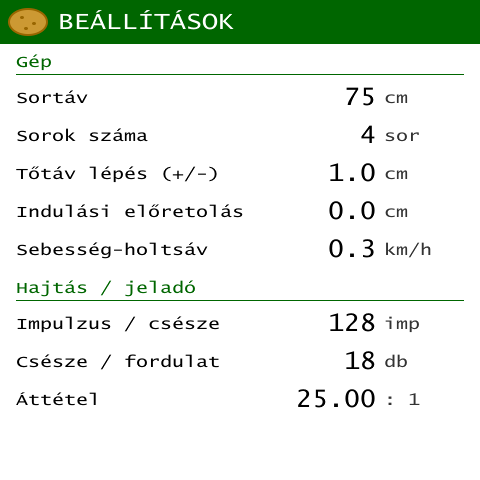
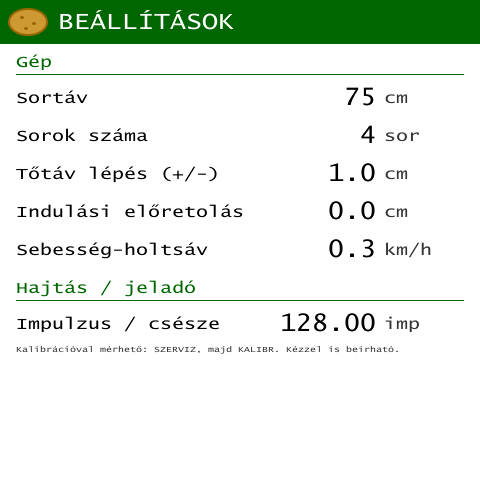
Add cup row calibration screen
Pulses per cup measured over N cups (10..100): jog a cup to the mark,
zero, turn, jog cup N to the mark, save. Pulses per cup now has two
decimals; gear ratio and cups per revolution are dropped.

diff --git a/tools/make_pool.py b/tools/make_pool.py
@@ -209,9 +209,9 @@ class Pool:
 
 # --- Object ids -----------------------------------------------------------------------------
 # Masks
-DM_MAIN, DM_SETTINGS, DM_SERVICE = 1000, 1001, 1002
+DM_MAIN, DM_SETTINGS, DM_SERVICE, DM_CALIBRATION = 1000, 1001, 1002, 1003
 AM_JAM, AM_LAG, AM_NO_SPEED, AM_MOTOR = 1100, 1101, 1102, 1103
-SKM_MAIN, SKM_SETTINGS, SKM_SERVICE, SKM_ALARM = 2000, 2001, 2002, 2100
+SKM_MAIN, SKM_SETTINGS, SKM_SERVICE, SKM_CALIBRATION, SKM_ALARM = 2000, 2001, 2002, 2003, 2100
 
 # Keys and their key codes (the code the ECU gets in the Soft Key Activation message)
 KEYS = {
@@ -223,6 +223,12 @@ KEYS = {
     "KEY_HOME": (5006, 7),
     "KEY_CALIBRATE": (5007, 8),
     "KEY_ALARM_ACK": (5008, 9),
+    # Calibration screen. JOG runs the motor slowly while held (pressed/held/released), JOG_FINE moves one small step
+    "KEY_CAL_JOG": (5009, 10),
+    "KEY_CAL_JOG_FINE": (5010, 11),
+    "KEY_CAL_ZERO": (5011, 12),
+    "KEY_CAL_START_STOP": (5012, 13),
+    "KEY_CAL_SAVE": (5013, 14),
 }
 
 # Values the ECU changes at runtime (Change Numeric Value / Change String Value / Change Attribute)
@@ -254,9 +260,7 @@ IN_ROW_COUNT = 6101
 IN_SPACING_STEP = 6102            # mm, shown as cm
 IN_START_ADVANCE = 6103           # mm, shown as cm
 IN_SPEED_DEADBAND = 6104          # 0.1 km/h
-IN_PULSES_PER_CUP = 6105
-IN_CUPS_PER_REV = 6106
-IN_GEAR_RATIO = 6107              # 0.01
+IN_PULSES_PER_CUP = 6105         # 0.01 pulse, measured by the calibration (or typed in)
 
 # Service
 IN_KP_POS = 6200                  # 0.01
@@ -265,12 +269,23 @@ IN_PI_KI = 6202                   # 0.01
 IN_MAX_LAG = 6203                 # 0.1 cup
 IN_CURRENT_LIMIT = 6204           # 0.1 A
 IN_SOFT_START = 6205              # ms
-IN_CAL_CUPS = 6206                # cups to turn for calibration
-OUT_CAL_PULSES = 6207             # pulses counted
+
+# Calibration (DM_CALIBRATION)
+IN_CAL_CUPS = 6300                # N, cups to turn, 10..100
+OUT_CAL_PULSES = 6301             # pulses counted since ZERO
+OUT_CAL_CUPS_DONE = 6302          # 0.1 cup, estimate from the old pulses per cup (0 if there is none)
+OUT_CAL_NEW = 6303                # 0.01 pulse per cup, pulses / N
+OUT_CAL_OLD = 6304                # 0.01 pulse per cup, the value in use
+OUT_CAL_DEVIATION = 6305          # 0.01 %, offset so that 0 % = 100000
+OUT_CAL_MESSAGE = 6306            # string, 40 chars: what to do next
+OBJ_CAL_STEP1 = 6307              # step circles: change the fill to FILL_GREEN (done),
+OBJ_CAL_STEP2 = 6308              #   FILL_ORANGE (current) or FILL_GREY (not yet)
+OBJ_CAL_STEP3 = 6309
 
 FILL_GREEN = "FILL_GREEN"
 FILL_RED = "FILL_RED"
 FILL_GREY = "FILL_GREY"
+FILL_ORANGE = "FILL_ORANGE"
 
 
 def key_label(pool, key_name, big, small, big_size=F24x32, colour=BLACK):
@@ -311,6 +326,17 @@ def setting_row(pool, label, unit, input_id, value, minimum, maximum, scale, dec
             (pool.text(80, 32, unit, LABEL, F12x16), 384, y)]
 
 
+def output_row(pool, label, unit, name, value, scale, decimals, y, offset=0, colour=BLACK):
+    """A read-only row; `name` is the id constant's name, so it also goes into the header."""
+    return [(pool.text(240, 32, label, BLACK, F12x16), 16, y),
+            (pool.number(globals()[name], 120, 32, value, scale, decimals, colour, F16x24, offset=offset, name=name), 256, y),
+            (pool.text(80, 32, unit, LABEL, F12x16), 384, y)]
+
+
+def section_title(pool, title, y):
+    return [(pool.text(448, 20, title, DARK_GREEN, F12x16), 16, y), (pool.hline(448, DARK_GREEN, 2), 16, y + 22)]
+
+
 def build():
     p = Pool()
 
@@ -320,6 +346,7 @@ def build():
     p.names[FILL_GREEN] = p.fill(rgb(0, 4, 0))
     p.names[FILL_RED] = p.fill(RED)
     p.names[FILL_GREY] = p.fill(GREY)
+    p.names[FILL_ORANGE] = p.fill(rgb(5, 3, 0))
 
     # --- Soft keys --------------------------------------------------------------------------
     key_label(p, "KEY_SPACING_UP", "+", "TŐTÁV")
@@ -330,12 +357,23 @@ def build():
     key_label(p, "KEY_HOME", "<", "VISSZA")
     key_label(p, "KEY_CALIBRATE", "C", "KALIBR.")
     key_label(p, "KEY_ALARM_ACK", "OK", "NYUGTA", F24x32, DARK_GREEN)
+    key_label(p, "KEY_CAL_JOG", ">>", "LÉPTET")
+    key_label(p, "KEY_CAL_JOG_FINE", ">|", "FINOM")
+    key_label(p, "KEY_CAL_ZERO", "0", "NULLA")
+    play = p.polygon(20, 24, [(0, 0), (20, 12), (0, 24)], DARK_GREEN, DARK_GREEN)
+    stop = p.rect(20, 20, RED, RED)
+    p.key(KEYS["KEY_CAL_START_STOP"][0], KEYS["KEY_CAL_START_STOP"][1],
+          [(play, 8, 8), (stop, 34, 10), (p.text(60, 18, "START/STOP", BLACK, F6x8, CENTER | MIDDLE), 0, 40)],
+          name="KEY_CAL_START_STOP")
+    key_label(p, "KEY_CAL_SAVE", "OK", "MENTÉS", F24x32, DARK_GREEN)
 
     k = {name: object_id for name, (object_id, _) in KEYS.items()}
     p.soft_key_mask(SKM_MAIN, [k["KEY_SPACING_UP"], k["KEY_SPACING_DOWN"], k["KEY_RESET_COUNTERS"],
                                NONE, NONE, k["KEY_SETTINGS"]], name="SKM_MAIN")
     p.soft_key_mask(SKM_SETTINGS, [k["KEY_HOME"], NONE, NONE, NONE, NONE, k["KEY_SERVICE"]], name="SKM_SETTINGS")
     p.soft_key_mask(SKM_SERVICE, [k["KEY_HOME"], NONE, k["KEY_CALIBRATE"]], name="SKM_SERVICE")
+    p.soft_key_mask(SKM_CALIBRATION, [k["KEY_HOME"], k["KEY_CAL_JOG"], k["KEY_CAL_JOG_FINE"], k["KEY_CAL_ZERO"],
+                                      k["KEY_CAL_START_STOP"], k["KEY_CAL_SAVE"]], name="SKM_CALIBRATION")
     p.soft_key_mask(SKM_ALARM, [k["KEY_ALARM_ACK"]], name="SKM_ALARM")
 
     # --- Main working screen ---------------------------------------------------------------
@@ -431,23 +469,17 @@ def build():
         ("Indulási előretolás", "cm", IN_START_ADVANCE, 0, 0, 500, 0.1, 1),
         ("Sebesség-holtsáv", "km/h", IN_SPEED_DEADBAND, 3, 0, 50, 0.1, 1),
     ]
-    calibration = [
-        ("Impulzus / csésze", "imp", IN_PULSES_PER_CUP, 128, 1, 65000, 1, 0),
-        ("Csésze / fordulat", "db", IN_CUPS_PER_REV, 18, 1, 200, 1, 0),
-        ("Áttétel", ": 1", IN_GEAR_RATIO, 2500, 100, 20000, 0.01, 2),
-    ]
-    settings = header(p, "BEÁLLÍTÁSOK")
-    settings += [(p.text(448, 20, "Gép", DARK_GREEN, F12x16), 16, 52), (p.hline(448, DARK_GREEN, 2), 16, 74)]
+    settings = header(p, "BEÁLLÍTÁSOK") + section_title(p, "Gép", 52)
     for index, row in enumerate(rows):
         settings += setting_row(p, *row, y=82 + index * 38)
-    settings += [(p.text(448, 20, "Hajtás / jeladó", DARK_GREEN, F12x16), 16, 278), (p.hline(448, DARK_GREEN, 2), 16, 300)]
-    for index, row in enumerate(calibration):
-        settings += setting_row(p, *row, y=308 + index * 38)
+    settings += section_title(p, "Hajtás / jeladó", 278)
+    settings += setting_row(p, "Impulzus / csésze", "imp", IN_PULSES_PER_CUP, 12800, 100, 10000000, 0.01, 2, y=308)
+    settings.append((p.text(448, 32, "Kalibrációval mérhető: SZERVIZ, majd KALIBR. Kézzel is beírható.", LABEL, F6x8,
+                            LEFT | TOP, wrap=True), 16, 346))
     p.data_mask(DM_SETTINGS, SKM_SETTINGS, settings, bg=PANEL, name="DM_SETTINGS")
 
-    # --- Service: controller and calibration --------------------------------------------------
-    service = header(p, "SZERVIZ")
-    service += [(p.text(448, 20, "Szabályzó", DARK_GREEN, F12x16), 16, 52), (p.hline(448, DARK_GREEN, 2), 16, 74)]
+    # --- Service: controller -------------------------------------------------------------------
+    service = header(p, "SZERVIZ") + section_title(p, "Szabályzó", 52)
     controller = [
         ("Kp pozíció", "1/s", IN_KP_POS, 150, 0, 5000, 0.01, 2),
         ("PI Kp", "", IN_PI_KP, 80, 0, 5000, 0.01, 2),
@@ -458,15 +490,46 @@ def build():
     ]
     for index, row in enumerate(controller):
         service += setting_row(p, *row, y=82 + index * 38)
-    service += [
-        (p.text(448, 20, "Forgatásos kalibráció", DARK_GREEN, F12x16), 16, 316), (p.hline(448, DARK_GREEN, 2), 16, 338),
-        *setting_row(p, "Forgatandó csésze", "db", IN_CAL_CUPS, 50, 1, 500, 1, 0, y=346),
-        (p.text(240, 32, "Számolt impulzus", BLACK, F12x16), 16, 384),
-        (p.number(OUT_CAL_PULSES, 120, 32, 6400, 1, 0, BLACK, F16x24, name="OUT_CAL_PULSES"), 256, 384),
-        (p.text(80, 32, "imp", LABEL, F12x16), 384, 384),
-        (p.text(448, 36, "Álló gépnél, felemelt munkakapcsolóval. Indítás: KALIBR. gomb.", LABEL, F6x8, LEFT | TOP, wrap=True), 16, 426),
-    ]
+    service += section_title(p, "Csészesor kalibráció", 316)
+    service.append((p.text(448, 60, "Az impulzus / csésze mérése N csésze körbeforgatásával. Megnyitás: KALIBR. gomb.",
+                           BLACK, F8x12, LEFT | TOP, wrap=True), 16, 346))
     p.data_mask(DM_SERVICE, SKM_SERVICE, service, bg=PANEL, name="DM_SERVICE")
+
+    # --- Calibration: pulses per cup over N cups -------------------------------------------------
+    # 1. JOG / JOG FINE until a cup is at the mark, ZERO.  2. START: turns slowly, stops by itself near N - 1/2 cup
+    # (with an old value) or on STOP.  3. JOG FINE until cup N is at the mark, SAVE: pulses / N.
+    # Always approach the mark forwards (backlash); after an overshoot go back past it and come forwards again.
+    steps = [
+        (OBJ_CAL_STEP1, "OBJ_CAL_STEP1", FILL_ORANGE, "Ráállás", "LÉPTET / FINOM: egy csésze a jelhez, majd NULLA"),
+        (OBJ_CAL_STEP2, "OBJ_CAL_STEP2", FILL_GREY, "Forgatás", "START: lassan forog N csészényit, STOP megállítja"),
+        (OBJ_CAL_STEP3, "OBJ_CAL_STEP3", FILL_GREY, "Befejezés", "FINOM: az N-edik csésze a jelhez, majd MENTÉS"),
+    ]
+    calibration = header(p, "KALIBRÁCIÓ")
+    for index, (object_id, name, fill, title, hint) in enumerate(steps):
+        y = 52 + index * 44
+        line = p.line(BLACK, 2)
+        circle = p.add(object_id, u8(15) + u16(line) + u16(30) + u16(30) + u8(0) + u8(0) + u8(0) + u16(p.names[fill]) + u8(0),
+                       refs=[line, p.names[fill]], name=name)
+        calibration += [
+            (circle, 16, y + 4),
+            (p.text(30, 30, str(index + 1), WHITE, F12x16, CENTER | MIDDLE), 16, y + 4),
+            (p.text(400, 18, title, BLACK, F12x16), 58, y + 2),
+            (p.text(400, 14, hint, LABEL, F6x8), 58, y + 22),
+        ]
+    calibration += [
+        (p.rect(448, 32, rgb(5, 5, 3), rgb(5, 3, 0), 2), 16, 186),
+        (p.text(440, 32, "Állíts egy csészét a jelhez, majd NULLA!", BLACK, F8x12, CENTER | MIDDLE,
+                object_id=OUT_CAL_MESSAGE, name="OUT_CAL_MESSAGE"), 20, 186),
+        *setting_row(p, "Csészék száma (N)", "db", IN_CAL_CUPS, 20, 10, 100, 1, 0, y=226),
+        *output_row(p, "Számolt impulzus", "imp", "OUT_CAL_PULSES", 2567, 1, 0, y=262),
+        *output_row(p, "Megtett csésze (becsült)", "db", "OUT_CAL_CUPS_DONE", 201, 0.1, 1, y=298),
+        *output_row(p, "Új impulzus / csésze", "imp", "OUT_CAL_NEW", 12835, 0.01, 2, y=334, colour=DARK_GREEN),
+        *output_row(p, "Eddigi impulzus / csésze", "imp", "OUT_CAL_OLD", 12800, 0.01, 2, y=370),
+        *output_row(p, "Eltérés", "%", "OUT_CAL_DEVIATION", 100027, 0.01, 2, y=406, offset=-100000),
+        (p.text(448, 20, "Csak álló gépnél, felemelt munkakapcsolóval. A jelhez mindig előre haladva állj rá.",
+                LABEL, F6x8, LEFT | MIDDLE), 16, 446),
+    ]
+    p.data_mask(DM_CALIBRATION, SKM_CALIBRATION, calibration, bg=PANEL, name="DM_CALIBRATION")
 
     # --- Alarms ------------------------------------------------------------------------------
     triangle = p.polygon(120, 104, [(60, 0), (120, 104), (0, 104)], YELLOW, BLACK, 3)
@@ -513,12 +576,14 @@ def write_header(p, path):
         "",
         "namespace krumpli_pool",
         "{",
-        *section("Masks", ["DM_MAIN", "DM_SETTINGS", "DM_SERVICE", "AM_JAM", "AM_LAG", "AM_NO_SPEED", "AM_MOTOR"]),
-        *section("Soft key masks", ["SKM_MAIN", "SKM_SETTINGS", "SKM_SERVICE", "SKM_ALARM"]),
+        *section("Masks", ["DM_MAIN", "DM_SETTINGS", "DM_SERVICE", "DM_CALIBRATION", "AM_JAM", "AM_LAG", "AM_NO_SPEED",
+                           "AM_MOTOR"]),
+        *section("Soft key masks", ["SKM_MAIN", "SKM_SETTINGS", "SKM_SERVICE", "SKM_CALIBRATION", "SKM_ALARM"]),
         *section("Soft keys (object ids)", list(KEYS)),
         "\t// Soft key codes (Soft Key Activation message)",
         *[f"\tconstexpr std::uint8_t {n}_CODE = {code};" for n, (_, code) in KEYS.items()],
-        *section("Fill attributes for Change Attribute on the status box and the work switch LED", [FILL_GREEN, FILL_RED, FILL_GREY]),
+        *section("Fill attributes for Change Attribute (status box, work switch LED, calibration steps)",
+                 [FILL_GREEN, FILL_RED, FILL_GREY, FILL_ORANGE]),
         *section("Runtime values", var_names),
         "} // namespace krumpli_pool",
         "",

diff --git a/include/krumpli_pool_ids.hpp b/include/krumpli_pool_ids.hpp
@@ -9,6 +9,7 @@ namespace krumpli_pool
 	constexpr std::uint16_t DM_MAIN = 1000;
 	constexpr std::uint16_t DM_SETTINGS = 1001;
 	constexpr std::uint16_t DM_SERVICE = 1002;
+	constexpr std::uint16_t DM_CALIBRATION = 1003;
 	constexpr std::uint16_t AM_JAM = 1100;
 	constexpr std::uint16_t AM_LAG = 1101;
 	constexpr std::uint16_t AM_NO_SPEED = 1102;
@@ -17,6 +18,7 @@ namespace krumpli_pool
 	constexpr std::uint16_t SKM_MAIN = 2000;
 	constexpr std::uint16_t SKM_SETTINGS = 2001;
 	constexpr std::uint16_t SKM_SERVICE = 2002;
+	constexpr std::uint16_t SKM_CALIBRATION = 2003;
 	constexpr std::uint16_t SKM_ALARM = 2100;
 	// Soft keys (object ids)
 	constexpr std::uint16_t KEY_SPACING_UP = 5000;
@@ -27,6 +29,11 @@ namespace krumpli_pool
 	constexpr std::uint16_t KEY_HOME = 5006;
 	constexpr std::uint16_t KEY_CALIBRATE = 5007;
 	constexpr std::uint16_t KEY_ALARM_ACK = 5008;
+	constexpr std::uint16_t KEY_CAL_JOG = 5009;
+	constexpr std::uint16_t KEY_CAL_JOG_FINE = 5010;
+	constexpr std::uint16_t KEY_CAL_ZERO = 5011;
+	constexpr std::uint16_t KEY_CAL_START_STOP = 5012;
+	constexpr std::uint16_t KEY_CAL_SAVE = 5013;
 	// Soft key codes (Soft Key Activation message)
 	constexpr std::uint8_t KEY_SPACING_UP_CODE = 1;
 	constexpr std::uint8_t KEY_SPACING_DOWN_CODE = 2;
@@ -36,10 +43,16 @@ namespace krumpli_pool
 	constexpr std::uint8_t KEY_HOME_CODE = 7;
 	constexpr std::uint8_t KEY_CALIBRATE_CODE = 8;
 	constexpr std::uint8_t KEY_ALARM_ACK_CODE = 9;
-	// Fill attributes for Change Attribute on the status box and the work switch LED
+	constexpr std::uint8_t KEY_CAL_JOG_CODE = 10;
+	constexpr std::uint8_t KEY_CAL_JOG_FINE_CODE = 11;
+	constexpr std::uint8_t KEY_CAL_ZERO_CODE = 12;
+	constexpr std::uint8_t KEY_CAL_START_STOP_CODE = 13;
+	constexpr std::uint8_t KEY_CAL_SAVE_CODE = 14;
+	// Fill attributes for Change Attribute (status box, work switch LED, calibration steps)
 	constexpr std::uint16_t FILL_GREEN = 30001;
 	constexpr std::uint16_t FILL_RED = 30002;
 	constexpr std::uint16_t FILL_GREY = 30003;
+	constexpr std::uint16_t FILL_ORANGE = 30004;
 	// Runtime values
 	constexpr std::uint16_t IN_TARGET_SPACING = 6000;
 	constexpr std::uint16_t OUT_ACTUAL_SPACING = 6001;
@@ -62,5 +75,13 @@ namespace krumpli_pool
 	constexpr std::uint16_t OUT_MOTOR_CURRENT = 6018;
 	constexpr std::uint16_t VAR_MOTOR_PWM = 6019;
 	constexpr std::uint16_t OUT_MOTOR_RPM = 6020;
-	constexpr std::uint16_t OUT_CAL_PULSES = 6207;
+	constexpr std::uint16_t OUT_CAL_PULSES = 6301;
+	constexpr std::uint16_t OUT_CAL_CUPS_DONE = 6302;
+	constexpr std::uint16_t OUT_CAL_NEW = 6303;
+	constexpr std::uint16_t OUT_CAL_OLD = 6304;
+	constexpr std::uint16_t OUT_CAL_DEVIATION = 6305;
+	constexpr std::uint16_t OUT_CAL_MESSAGE = 6306;
+	constexpr std::uint16_t OBJ_CAL_STEP1 = 6307;
+	constexpr std::uint16_t OBJ_CAL_STEP2 = 6308;
+	constexpr std::uint16_t OBJ_CAL_STEP3 = 6309;
 } // namespace krumpli_pool

diff --git a/docs/krumpliulteto-vezerlo.md b/docs/krumpliulteto-vezerlo.md
@@ -26,19 +26,19 @@ Sebességkövetés helyett a megtett távolsághoz kötjük a motor pozíciójá
 ### 2.1 Képletek
 
 ```
-csésze_per_ford      : csészék száma a jeladó tengelyének egy fordulatára (áttétellel együtt)
+impulzus_per_csésze  : jeladó-impulzus egy csészére, kalibrációval mérve (5.1 pont)
 tőtáv [m]            : felhasználói beállítás
 v [m/s]              : kiválasztott sebességforrás
 d [m]                : megtett távolság (munkakapcsolóval kapuzva)
 
-cél_pozíció [ford]   = d / (tőtáv * csésze_per_ford)
-előcsatolás [ford/s] = v / (tőtáv * csésze_per_ford)
+cél_pozíció [imp]    = d / tőtáv * impulzus_per_csésze
+előcsatolás [imp/s]  = v / tőtáv * impulzus_per_csésze
 ```
 
 ### 2.2 Szabályzó struktúra
 
 ```
-ff       = v / (tőtáv * csésze_per_ford)
+ff       = v / tőtáv * impulzus_per_csésze
 pos_err  = cél_pozíció - tényleges_pozíció
 pos_err  = clamp(pos_err, -max_lemaradás, +max_lemaradás)
 n_cél    = ff + Kp_pos * pos_err
@@ -46,6 +46,8 @@ n_cél    = ff + Kp_pos * pos_err
 belső hurok: PI(n_cél - n_tényleges) -> PWM
 ```
 
+- Minden pozíció és fordulat jeladó-impulzusban értendő; a `max_lemaradás` csészében van megadva, impulzusra
+  `* impulzus_per_csésze` szorzással váltjuk.
 - Az **előcsatolás** végzi a munka nagy részét, a pozícióhurok csak korrigál.
 - A **clamp** megakadályozza, hogy elakadás/leállás után a motor egyszerre próbálja behozni a lemaradást (gumók egymásra kerülnének).
 - Ha `|pos_err|` tartósan eléri a `max_lemaradás` értéket → **riasztás**, a többletet el kell dobni (a cél pozíciót a tényleges közelébe húzni).
@@ -105,15 +107,38 @@ dolgozik = munkakapcsoló_lent && v > v_min && sebességforrás_érvényes && !r
 ## 5. Forgásjeladó
 
 - Lehetőleg a **motortengelyen** (hajtómű előtt) → nagy felbontás a pozícióhurokhoz.
-- Kalibráció:
-  - `impulzus_per_csésze` – forgatásos kalibrálás: „forgass N csészét, számold az impulzusokat”, vagy
-  - áttétel + csészék száma fordulatonként megadva.
+- Kalibráció: `impulzus_per_csésze` mérése, lásd 5.1. Áttételt és csésze/fordulat értéket nem kérünk be, a mért
+  érték ezeket kiváltja (és a láncos csészesor pontatlanságát is benne méri). Kézzel is beírható.
 - **Elakadás / láncszakadás figyelés:**
   - nagy PWM, de nincs impulzus → elakadás
   - impulzus van, de a terhelés (áram) gyanúsan kicsi → lánc/hajtás szakadás (ha van áramméréses adat)
 - **Nehezedő hajtás:** ha azonos fordulatszámhoz egyre nagyobb PWM és áram kell → kopás, szennyeződés, beszorulás
   előjele. A VT-n a fordulat, a PWM és az áram egymás mellett látszik; később figyelmeztetés is lehet belőle
   (pl. tanult PWM/áram–fordulat görbéhez képest).
+
+### 5.1 Csészesor kalibráció (impulzus / csésze)
+
+A VT-n léptetve forgatjuk a csészesort, N csészét számolunk. A pontosságot csak az dönti el, mennyire pontosan
+áll a csésze a jelnél az elején és a végén; ez a hiba N-nel osztva jelenik meg csészénként.
+
+1. **N megadása** (10–100, alapérték 20). Ha kiderül, hány csésze van a csészesoron, és belefér a tartományba,
+   N legyen a teljes kör: így a csészék közti távolság egyenetlensége és a lánc nyúlása teljesen kiesik.
+2. **Ráállás:** LÉPTET (nyomva tartva lassan forog, elengedésre azonnal áll) és FINOM (lenyomásonként egy kis
+   lépés), amíg egy csésze a jelhez (pl. kiejtési pont vagy festett jel) nem ér. **NULLA** → impulzusszámláló = 0.
+3. **Forgatás:** START → lassan forog. Ha van korábbi érték, abból becsüli a megtett csészéket, és kb.
+   N − ½ csészénél magától megáll; ha nincs, a user állítja meg (STOP).
+4. **Befejezés:** FINOM léptetéssel az N-edik csésze a jelhez, majd **MENTÉS**: `impulzus_per_csésze = impulzus / N`
+   (0,01 felbontással tárolva).
+
+Szabályok:
+
+- A jelhez **mindig előre haladva** állunk rá (lánc / fogaskerék holtjáték). Túlfutásnál vissza a jel elé, és újra előre.
+- **Elszámolt csésze szűrése:** ha az új érték a régitől kb. `1/N`-nel tér el (N = 20 → kb. 5 %), az nagy
+  valószínűséggel egy csésze elszámolás, nem valós változás → rákérdezés mentés előtt. A VT mutatja a régi és az új
+  értéket, és az eltérést %-ban.
+- Csak álló gépnél (v = 0) és felemelt munkakapcsolónál engedélyezett; bármelyik feltétel megszűnése → motor áll,
+  a kalibráció megszakad.
+- A léptetés lassú, áramkorláttal; elakadásfigyelés itt is él.
 
 ---
 
@@ -129,7 +154,9 @@ dolgozik = munkakapcsoló_lent && v > v_min && sebességforrás_érvényes && !r
 
 ### Beállítások / kalibráció
 - Sortáv, sorok száma (területszámításhoz)
-- `impulzus_per_csésze` vagy áttétel + csészeszám
+- `impulzus_per_csésze` (0,01 felbontás, kalibrációval mérve vagy beírva)
+- Kalibráció képernyő: lépésjelző, N, számolt impulzus, becsült megtett csésze, új és régi érték, eltérés %;
+  softkey-ek: LÉPTET, FINOM, NULLA, START/STOP, MENTÉS
 - Szabályzó paraméterek (`Kp_pos`, PI erősítések, `max_lemaradás`) – szerviz szint
 - Indulási előretolás
 - Sebesség-holtsáv
@@ -168,7 +195,8 @@ AUX-N funkciók (opcionális): tőtáv +/-.
 ## 9. Nyitott kérdések
 
 - [ ] Motor típusa, feszültség, meghajtó (áramméréssel?)
-- [ ] Jeladó helye és felbontása, áttétel
-- [ ] Csészék száma / fordulat
+- [ ] Jeladó helye és felbontása
+- [ ] Csészék száma a csészesoron (N alapértékéhez: egy teljes kör, ha 10–100 közé esik)
+- [ ] Hol legyen a kalibrációs jel (kiejtési pont vagy festett jel)?
 - [ ] Sortáv, sorszám
 - [ ] Szükség van-e kézi sebességforrásra (pl. saját radar / GNSS) nem ISOBUS traktorhoz?

diff --git a/README.md b/README.md
@@ -39,9 +39,16 @@ Softkey-ek: tőtáv +/−, számlálók nullázása, beállítások.
 |---|---|
 | ![Beállítások](render/screen_1001.png) | ![Szerviz](render/screen_1002.png) |
 
-Beállítások: sortáv, sorok száma, tőtáv lépés, indulási előretolás, sebesség-holtsáv, impulzus/csésze,
-csésze/fordulat, áttétel. Szerviz: szabályzó paraméterek (Kp pozíció, PI, max. lemaradás, áramkorlát,
-lágyindítás) és forgatásos kalibráció.
+Beállítások: sortáv, sorok száma, tőtáv lépés, indulási előretolás, sebesség-holtsáv, impulzus/csésze.
+Szerviz: szabályzó paraméterek (Kp pozíció, PI, max. lemaradás, áramkorlát, lágyindítás), innen nyílik a kalibráció.
+
+### Csészesor kalibráció
+
+![Kalibráció](render/screen_1003.png)
+
+Az impulzus/csésze mérése N csészén (10–100): LÉPTET / FINOM gombbal egy csésze a jelhez, NULLA, START, a végén
+az N-edik csésze a jelhez, MENTÉS. A képernyő mutatja az új és az eddigi értéket és az eltérést, így egy
+elszámolt csésze (kb. 1/N eltérés) feltűnik. Részletek: a tervezési jegyzet 5.1 pontja.
 
 ### Riasztások
 
